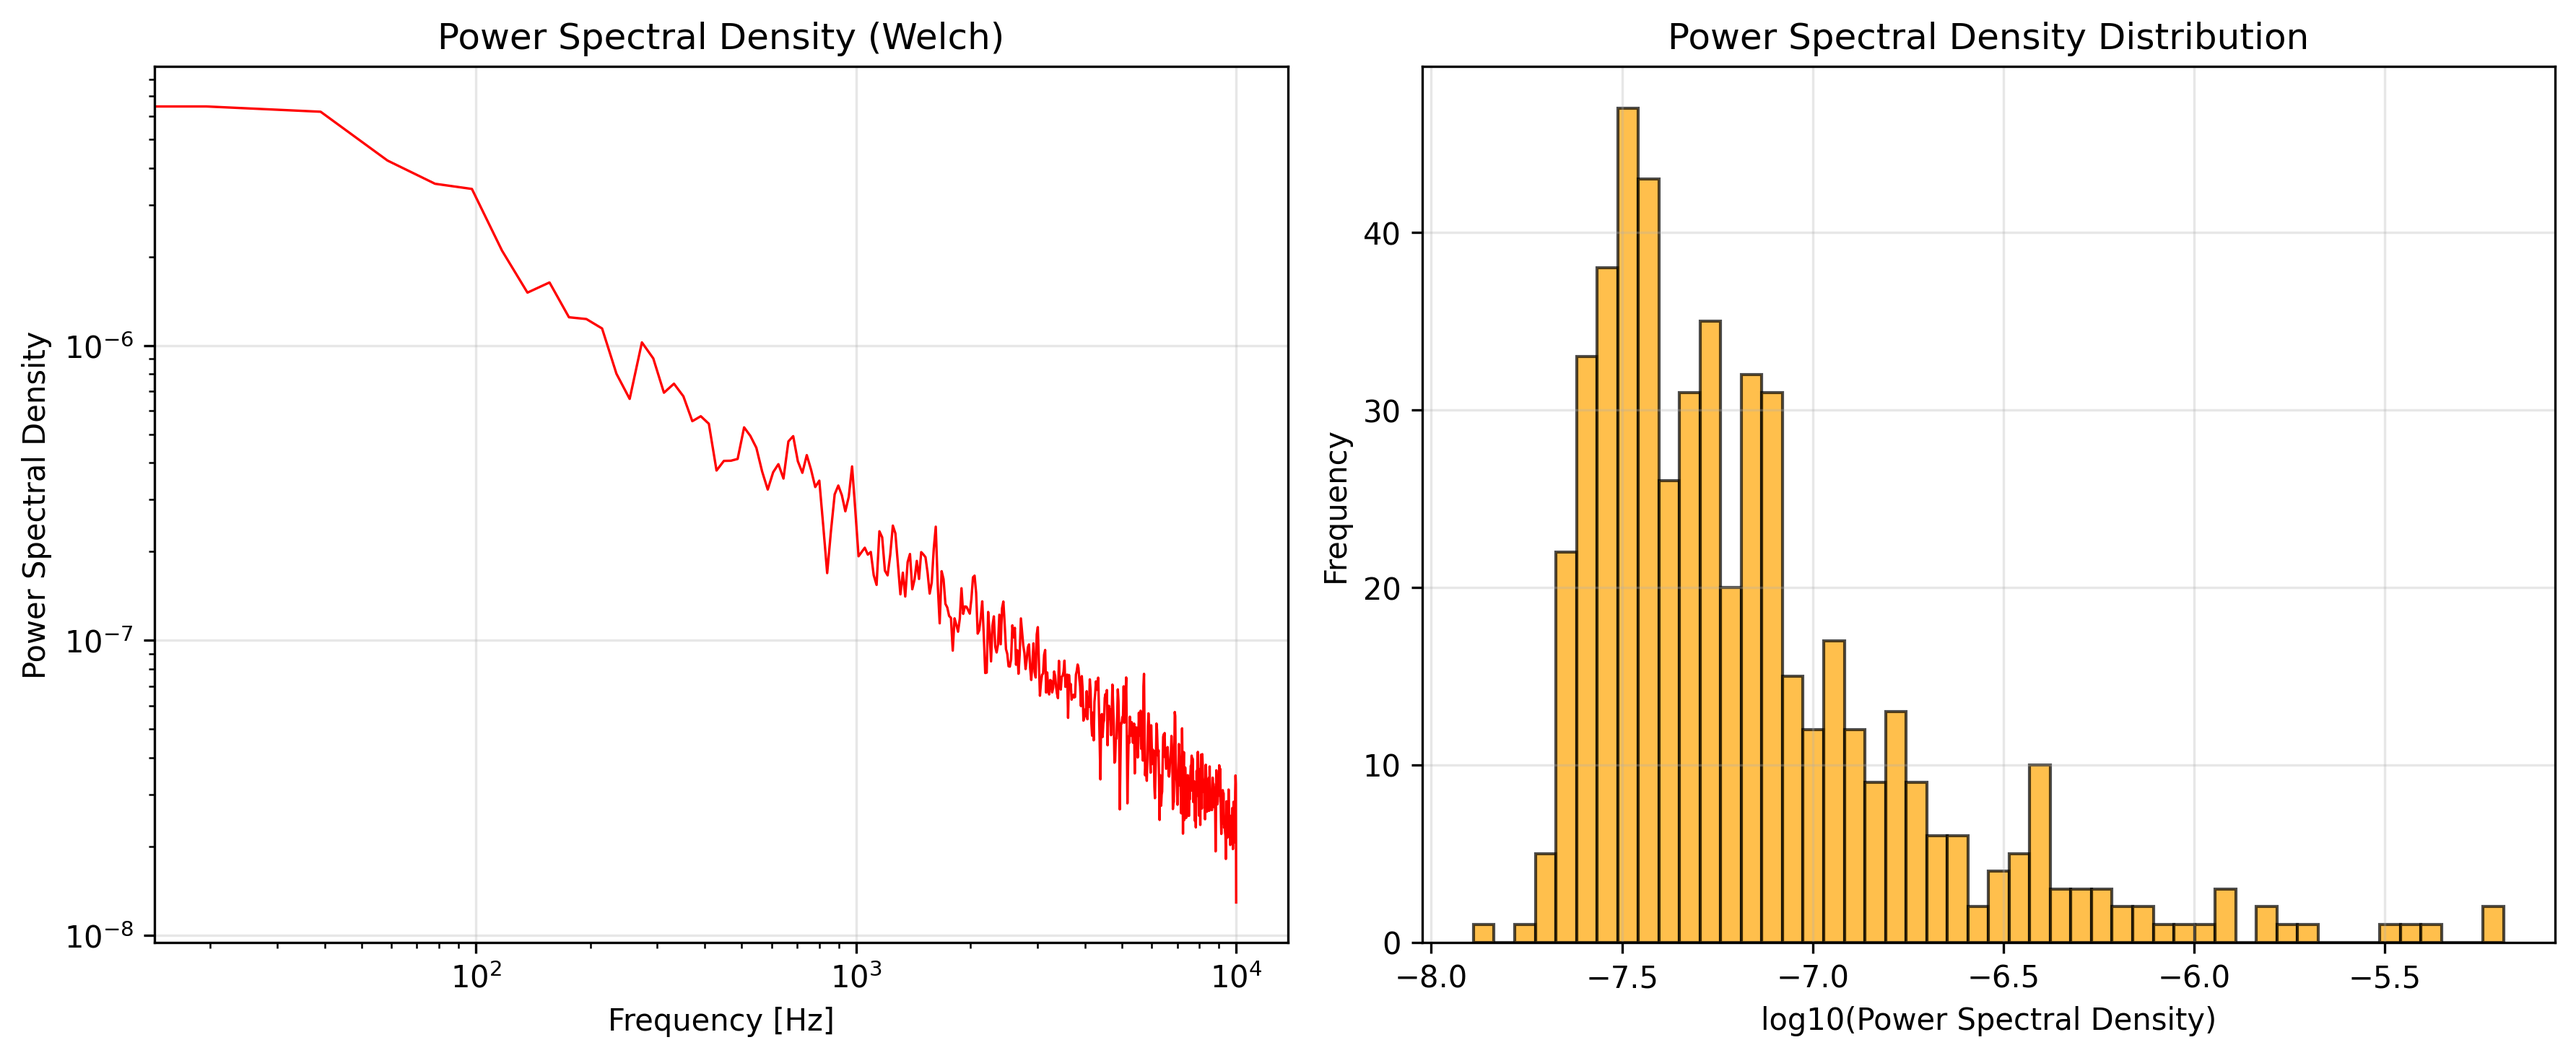
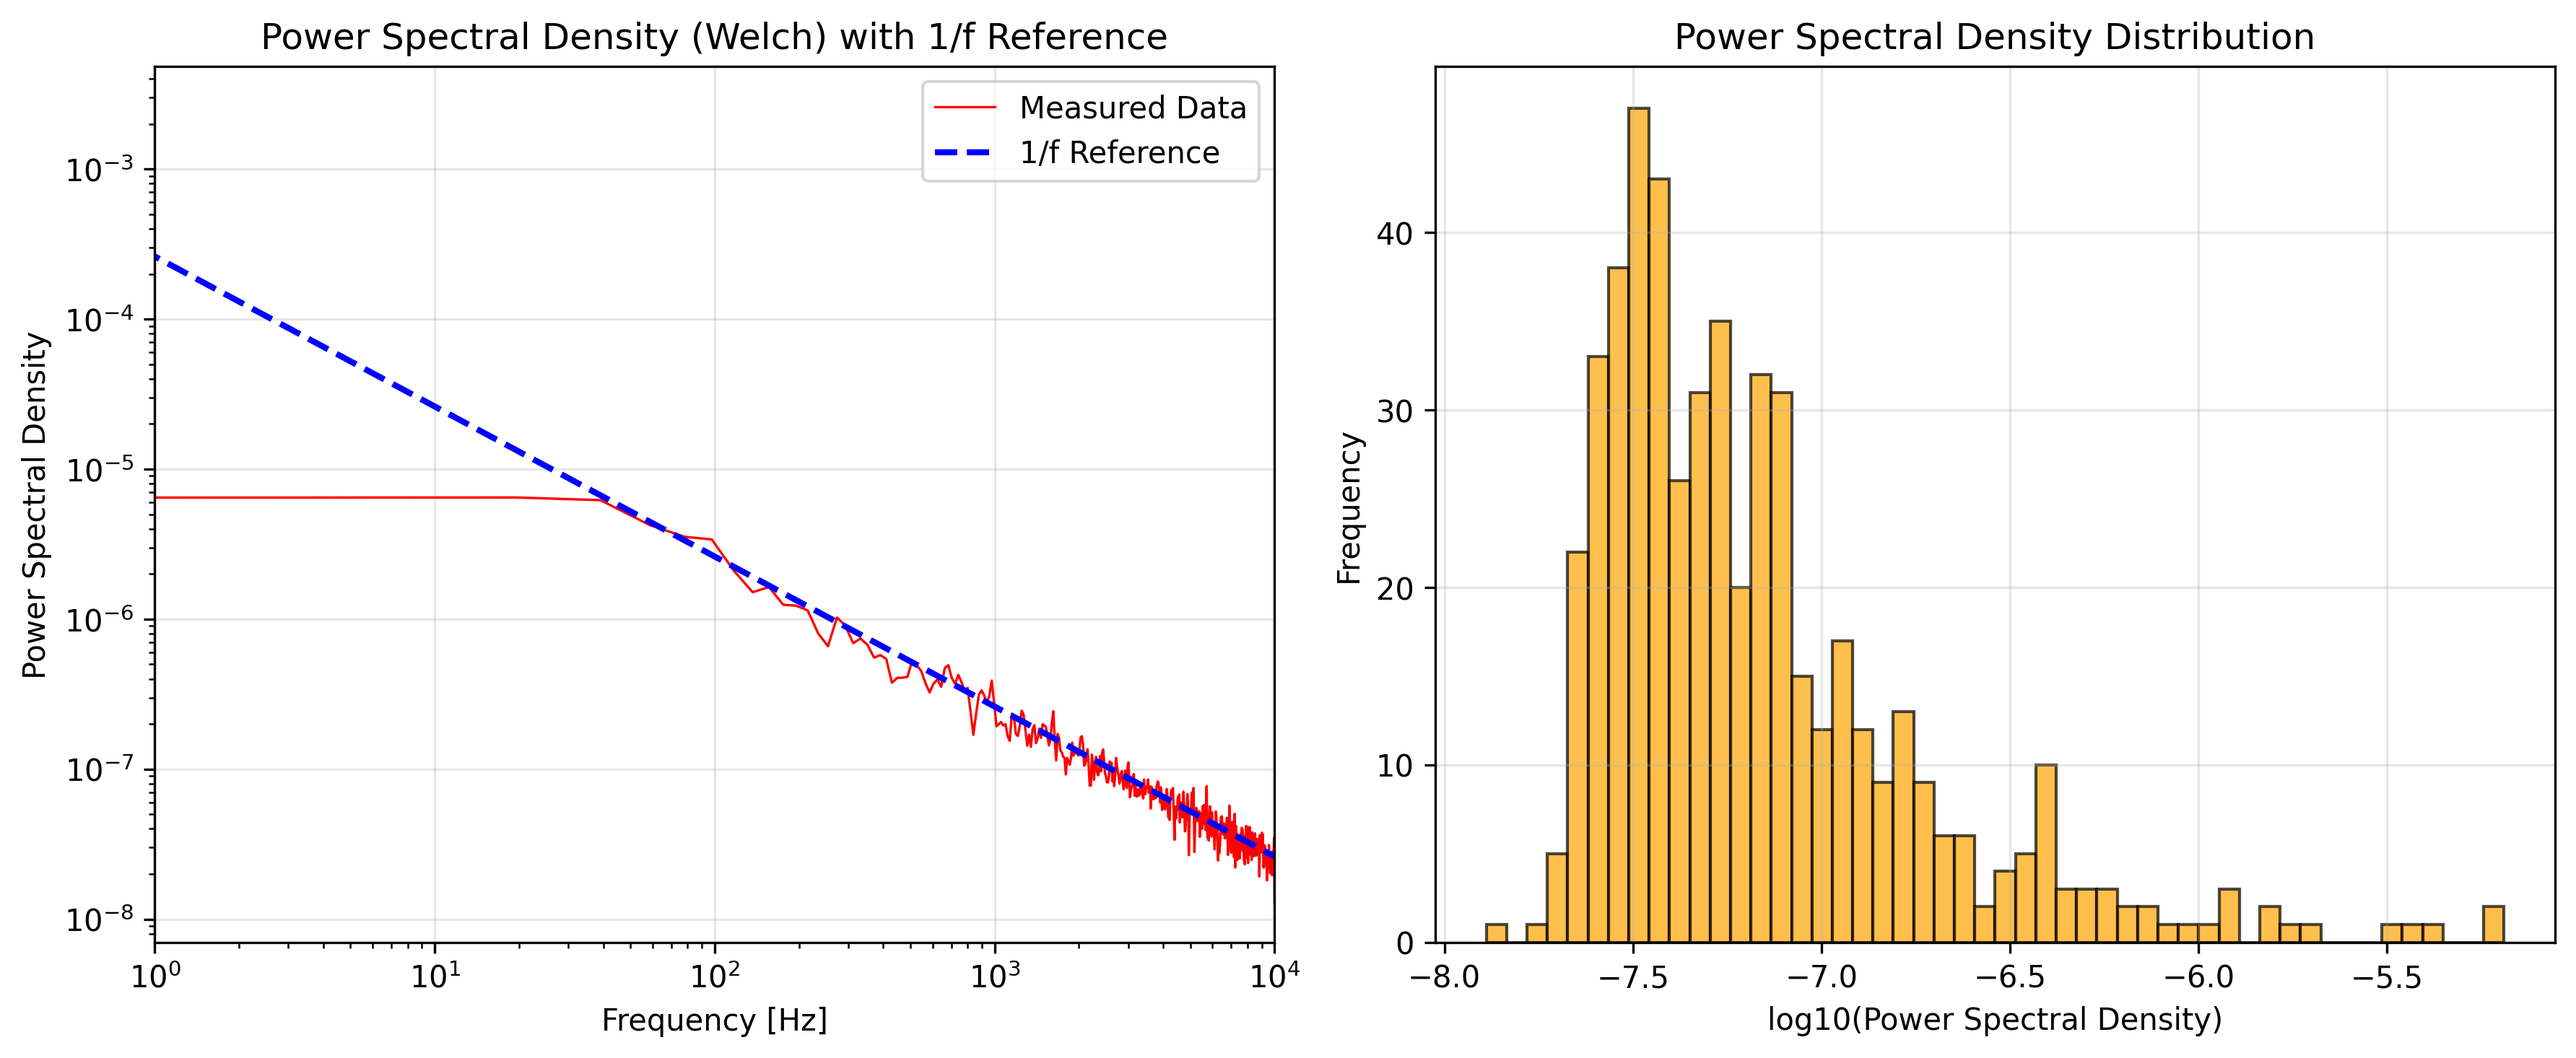
Add 1/f reference to spectrum plots
Enhanced the plot_spectrum function to include a 1/f reference line in the log-log spectrum plot for better visualization of noise characteristics. Removed the unused analyze_1f_noise function. Updated output spectrum analysis images to reflect these changes.

diff --git a/charge_noise_simulation.py b/charge_noise_simulation.py
@@ -117,17 +117,32 @@ def analyze_spectrum_fft(signal_with_noise, dt):
     return freq_positive, psd_positive
 
 def plot_spectrum(freq_positive, psd_positive, method):
-    """Plot spectrum graphs"""
+    """Plot spectrum graphs with 1/f reference"""
     
     # Plot spectrum
     fig, axes = plt.subplots(1, 2, figsize=(12, 5))
     
-    # Log-log scale spectrum
-    axes[0].loglog(freq_positive, psd_positive, 'r-', linewidth=0.8)
+    # Log-log scale spectrum with 1/f reference
+    axes[0].loglog(freq_positive, psd_positive, 'r-', linewidth=0.8, label='Measured Data')
+    
+    # Add 1/f reference line
+    # Find the middle frequency range for scaling
+    mid_idx = len(freq_positive) // 2
+    mid_freq = freq_positive[mid_idx]
+    mid_psd = psd_positive[mid_idx]
+    
+    # Generate 1/f reference line (avoid f=0)
+    min_freq = max(freq_positive[0], 0.1)  # Avoid f=0
+    ref_freq = np.logspace(np.log10(min_freq), np.log10(freq_positive[-1]), 100)
+    ref_psd = mid_psd * (mid_freq / ref_freq)  # Scale to match at mid frequency
+    
+    axes[0].loglog(ref_freq, ref_psd, 'b--', linewidth=2, label='1/f Reference')
     axes[0].set_xlabel('Frequency [Hz]')
     axes[0].set_ylabel('Power Spectral Density')
-    axes[0].set_title(f'Power Spectral Density ({method})')
+    axes[0].set_title(f'Power Spectral Density ({method}) with 1/f Reference')
+    axes[0].legend()
     axes[0].grid(True, alpha=0.3)
+    axes[0].set_xlim(1, freq_positive[-1]) # 1 Hz to 10 kHz
     
     # Spectral density distribution
     axes[1].hist(np.log10(psd_positive), bins=50, alpha=0.7, color='orange', edgecolor='black')
@@ -138,31 +153,6 @@ def plot_spectrum(freq_positive, psd_positive, method):
     
     plt.tight_layout()
     plt.savefig(f'spectrum_analysis_{method}.png', dpi=300, bbox_inches='tight')
-
-def analyze_1f_noise(frequencies, psd, freq_range=(0.1, 100)):
-    """Analyze 1/f noise characteristics"""
-    mask = (frequencies >= freq_range[0]) & (frequencies <= freq_range[1])
-    freq_analysis = frequencies[mask]
-    psd_analysis = psd[mask]
-    
-    if len(freq_analysis) < 10:
-        return None, None, None
-    
-    # Log fitting
-    log_freq = np.log(freq_analysis)
-    log_psd = np.log(psd_analysis)
-    
-    coeffs = np.polyfit(log_freq, log_psd, 1)
-    slope = coeffs[0]
-    intercept = coeffs[1]
-    
-    # Calculate R²
-    fit_values = intercept + slope * log_freq
-    ss_res = np.sum((log_psd - fit_values) ** 2)
-    ss_tot = np.sum((log_psd - np.mean(log_psd)) ** 2)
-    r_squared = 1 - (ss_res / ss_tot)
-    
-    return slope, r_squared, freq_analysis
 
 # Generate charge noise
 t, signal_with_noise, white_noise, pink_noise, base_signal = generate_charge_noise()
